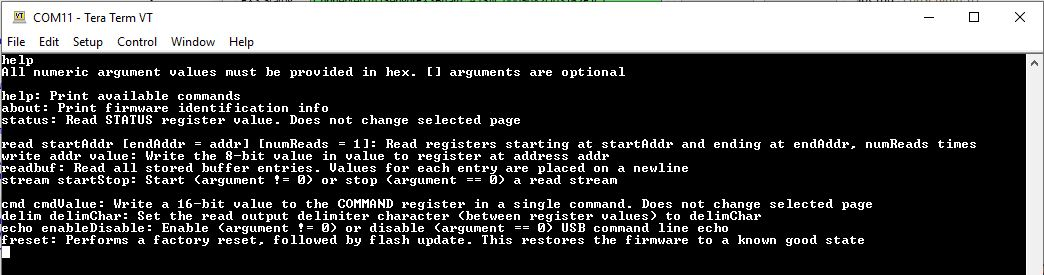
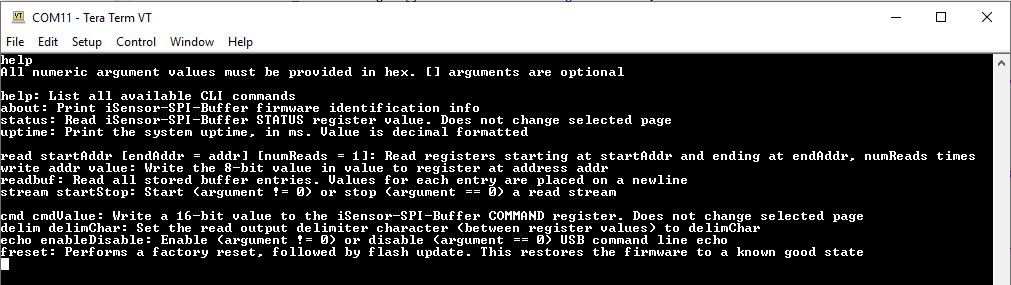
Reworded help message somewhat

diff --git a/Core/Src/script.c b/Core/Src/script.c
@@ -104,17 +104,17 @@ static const uint8_t UnknownErrorStr[] = "An unknown error has occurred!\r\n";
 
 /** Print string for help command */
 static const uint8_t HelpStr[] = "All numeric argument values must be provided in hex. [] arguments are optional\r\n\r\n"
-		"help: Print available commands\r\n"
-		"about: Print firmware identification info\r\n"
-		"status: Read STATUS register value. Does not change selected page\r\n"
-		"uptime: Get the system uptime, in ms\r\n"
+		"help: List all available CLI commands\r\n"
+		"about: Print iSensor-SPI-Buffer firmware identification info\r\n"
+		"status: Read iSensor-SPI-Buffer STATUS register value. Does not change selected page\r\n"
+		"uptime: Print the system uptime, in ms. Value is decimal formatted\r\n"
 		"\r\n"
 		"read startAddr [endAddr = addr] [numReads = 1]: Read registers starting at startAddr and ending at endAddr, numReads times\r\n"
 		"write addr value: Write the 8-bit value in value to register at address addr\r\n"
 		"readbuf: Read all stored buffer entries. Values for each entry are placed on a newline\r\n"
 		"stream startStop: Start (argument != 0) or stop (argument == 0) a read stream\r\n"
 		"\r\n"
-		"cmd cmdValue: Write a 16-bit value to the COMMAND register in a single command. Does not change selected page\r\n"
+		"cmd cmdValue: Write a 16-bit value to the iSensor-SPI-Buffer COMMAND register. Does not change selected page\r\n"
 		"delim delimChar: Set the read output delimiter character (between register values) to delimChar\r\n"
 		"echo enableDisable: Enable (argument != 0) or disable (argument == 0) USB command line echo\r\n"
 		"freset: Performs a factory reset, followed by flash update. This restores the firmware to a known good state\r\n";
